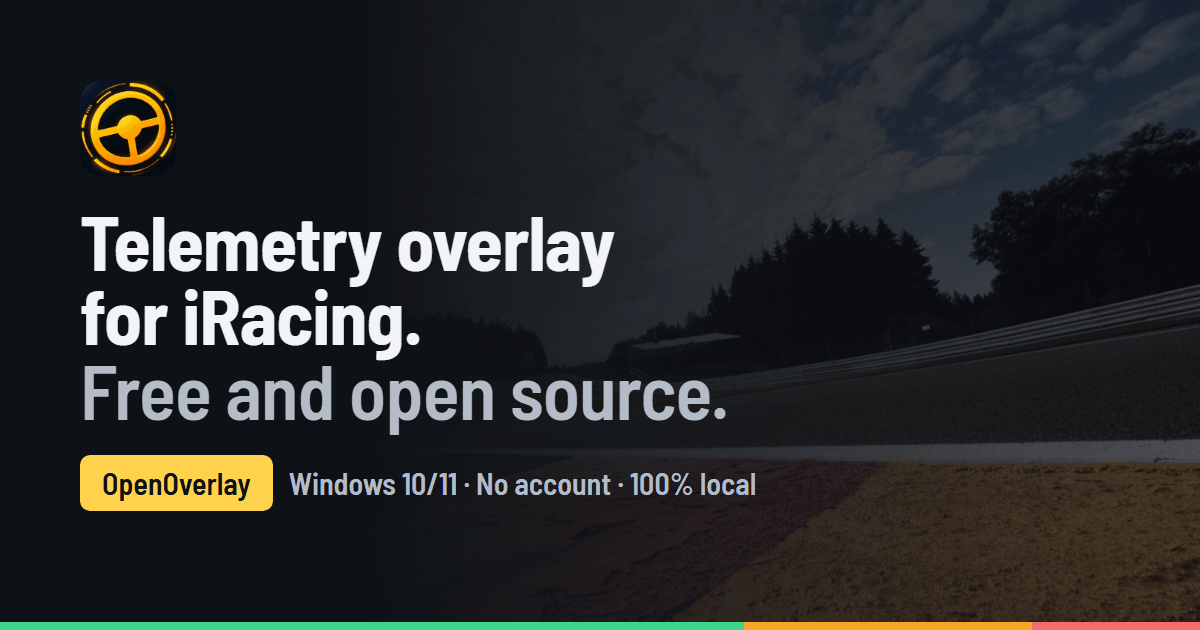
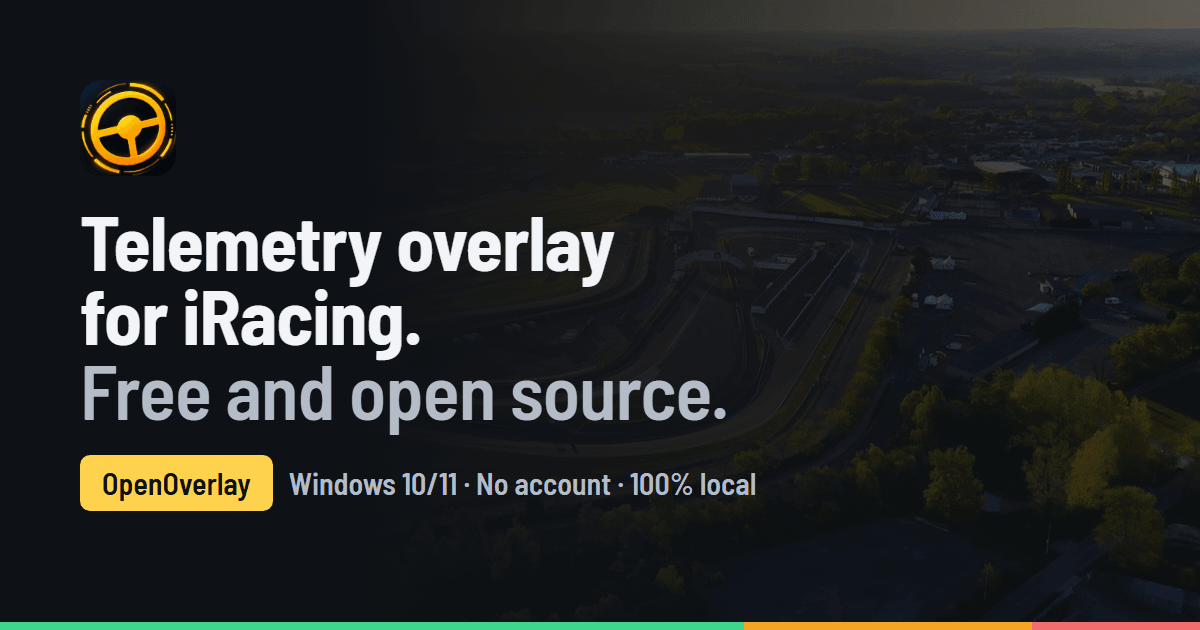
Replace hero background with Circuit de Nogaro at sunrise
Swap the Spa photo for a sharp aerial shot of Circuit de Nogaro (France)
at sunrise by Gabriel Weyand (Unsplash License), downloaded at 3200 px.
Serve it up to 3200 px wide (AVIF/WebP) so it stays crisp on large and
high-density screens, and lighten the right-hand shading so the golden
light shows behind the widgets. The sample Track & session bar now reads
Nogaro, the OG image uses the new photo, and the footer credits it.

diff --git a/website/src/content/es.ts b/website/src/content/es.ts
@@ -86,7 +86,7 @@ export const es: Content = {
     },
     track: {
       title: 'Track & session',
-      circuit: 'Spa-Francorchamps',
+      circuit: 'Nogaro',
       session: 'Carrera',
       trackTemp: 'Pista',
       airTemp: 'Aire',
@@ -327,7 +327,7 @@ export const es: Content = {
       { label: 'Licencia MIT', key: 'license' },
     ],
     creditsTitle: 'Créditos',
-    credits: 'YamlDotNet (MIT), Velopack (MIT), SharpVectors (BSD-3-Clause), Barlow Semi Condensed (SIL OFL), logos de marcas mayoritariamente de Simple Icons (CC0).',
+    credits: 'YamlDotNet (MIT), Velopack (MIT), SharpVectors (BSD-3-Clause), Barlow Semi Condensed (SIL OFL), logos de marcas mayoritariamente de Simple Icons (CC0). Foto de portada: circuito de Nogaro al amanecer, de Gabriel Weyand (Unsplash).',
     copyright: '© Andreu Marc Servera Lauder y colaboradores (OpenOverlay contributors).',
     legal:
       'OpenOverlay es una herramienta no oficial hecha por aficionados y no está afiliada ni respaldada por iRacing Motorsport Simulations. Los logos de las marcas son de sus respectivos propietarios y solo se usan para identificar la marca de cada coche.',

diff --git a/website/src/content/en.ts b/website/src/content/en.ts
@@ -86,7 +86,7 @@ export const en = {
     },
     track: {
       title: 'Track & session',
-      circuit: 'Spa-Francorchamps',
+      circuit: 'Nogaro',
       session: 'Race',
       trackTemp: 'Track',
       airTemp: 'Air',
@@ -327,7 +327,7 @@ export const en = {
       { label: 'MIT licence', key: 'license' },
     ],
     creditsTitle: 'Credits',
-    credits: 'YamlDotNet (MIT), Velopack (MIT), SharpVectors (BSD-3-Clause), Barlow Semi Condensed (SIL OFL), car brand logos mostly from Simple Icons (CC0).',
+    credits: 'YamlDotNet (MIT), Velopack (MIT), SharpVectors (BSD-3-Clause), Barlow Semi Condensed (SIL OFL), car brand logos mostly from Simple Icons (CC0). Hero photo: Circuit de Nogaro at sunrise by Gabriel Weyand (Unsplash).',
     copyright: '© Andreu Marc Servera Lauder and contributors (OpenOverlay contributors).',
     legal:
       'OpenOverlay is an unofficial, fan-made tool and is not affiliated with or endorsed by iRacing Motorsport Simulations. Car brand logos belong to their respective owners and are used only to identify each car’s make.',
